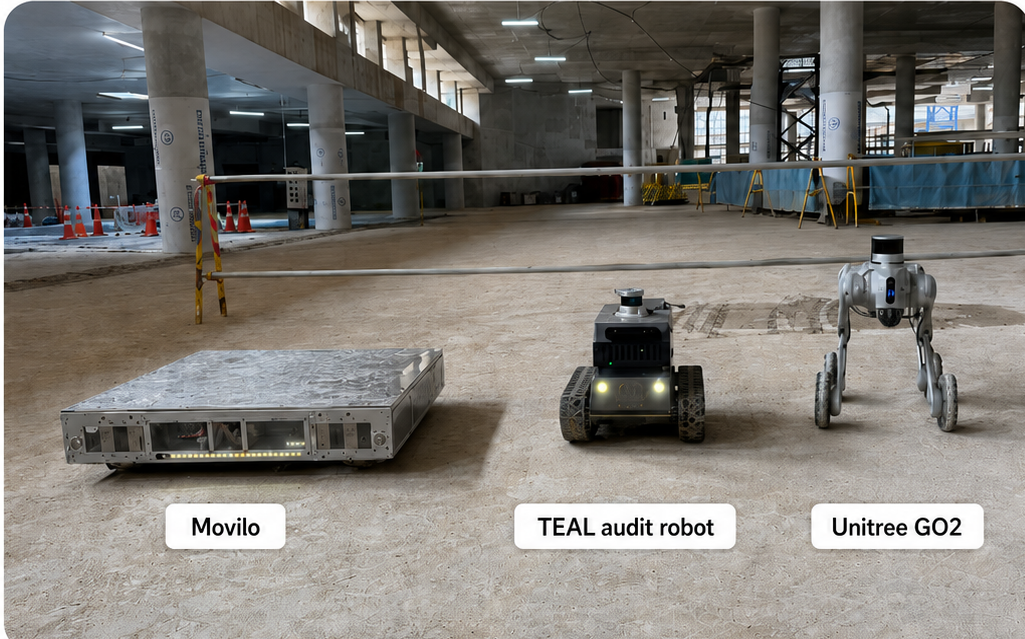
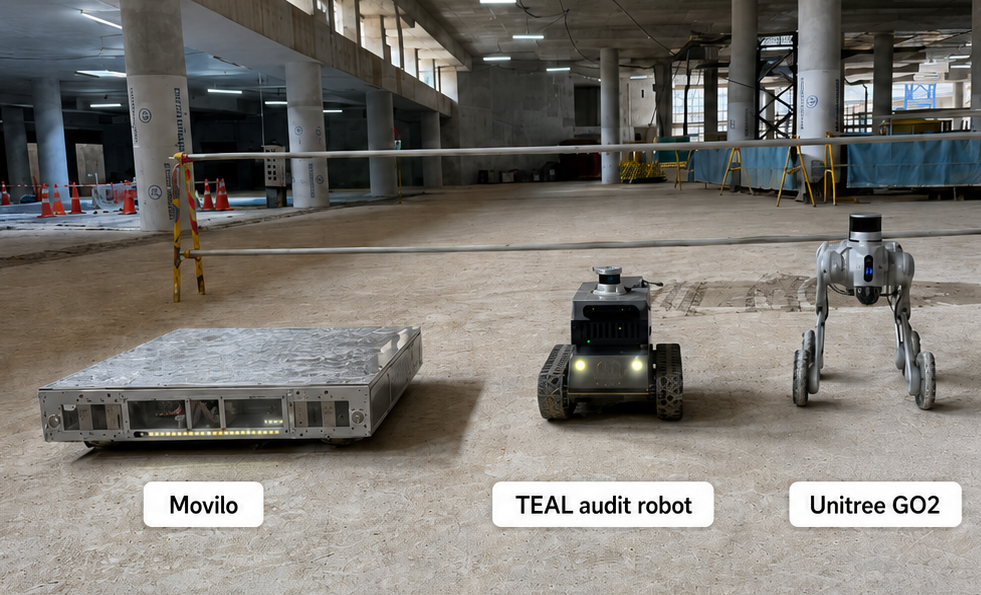
Restructure field figure: photos only, staged example moved to results
Fig. 3 now shows the squared, slightly smaller three-robot photo above
clean action shots of the Movilo (slide 57) and GO2 (slide 81). The
annotated consumable photo-and-map pair becomes its own figure placed
after the validation results discussion.

diff --git a/conference_101719.tex b/conference_101719.tex
@@ -252,14 +252,14 @@ With the Movilo, Setting~1 staged corridor widths, safety cones, temporary parti
  
 For every setting the audit robot of Section~\ref{sec:capture} was teleoperated through the selected area, and the saved point cloud is the input to every later analysis.
  
-We assessed two target robots in the staged validation, chosen for their deliberately different forms: an omnidirectional transport robot (Movilo) and a quadruped (Unitree GO2); the closed-loop tests of Section~\ref{sec:loop} additionally assess a painting robot (BES FT-P320). Fig.~\ref{fig:field} (top) shows the audit robot and the two staged-validation platforms at the site.
+We assessed two target robots in the staged validation, chosen for their deliberately different forms: an omnidirectional transport robot (Movilo) and a quadruped (Unitree GO2); the closed-loop tests of Section~\ref{sec:loop} additionally assess a painting robot (BES FT-P320). Fig.~\ref{fig:field} shows the platforms at the site and the two target robots during staged validation.
 % TODO confirm the painting robot model name
 
 \begin{figure}[t]
 \centering
-\includegraphics[width=\linewidth]{figs/robots_on_site.png}\\[3pt]
-\includegraphics[width=\linewidth]{figs/staged_condition_go2.png}
-\caption{Field deployment. Top: the Movilo, the TEAL audit robot, and the GO2 at the site. Bottom: a staged test condition for the GO2 in Setting~4, a consumable blocking the main route, marked by the red box in the behind-robot view (left) and at its location on the accessibility map computed for the GO2 (right); the robot could not pass, matching the prediction.}
+\includegraphics[width=0.88\linewidth]{figs/robots_on_site.png}\\[3pt]
+\includegraphics[width=\linewidth]{figs/targets_in_action.png}
+\caption{Field deployment. Top: the Movilo, the TEAL audit robot, and the GO2 at the site. Bottom: the target robots during staged validation, the Movilo at a large item placed along the wall (left) and the GO2 at a scaffold base placed at the side of the path (right), both correctly predicted accessible.}
 \label{fig:field}
 \end{figure}
 For each setting the framework received the point cloud together with the parameter set of the robot under assessment, listed in Table~\ref{tab:robots}, and returned the index and an accessibility map for that robot in that setting. Assessing two platforms of different geometry, tolerance, and drive from the same scans exercises the robot-specific character of the method, since every setting yields a different traversable map and a different index for each machine. Both platforms assessed can rotate in place, so the differential and car-like branches of the drive-type input are not exercised by these experiments.
@@ -317,7 +317,7 @@ Drive type $d$ & Holonomic (omni.) & Legged & Holonomic (omni.) \\
  
 \subsection{Prediction Validation}
 \label{sec:validation}
-Across the five settings we compared the accessibility map predicted for each robot against the observed behaviour of the physical platform. Every staged test case was attempted by the robot and recorded on video; the executed motion was annotated onto the map, and a prediction counts as correct when a region marked accessible was traversed and a region marked inaccessible could not be entered. Fig.~\ref{fig:field} (bottom) shows one such staged condition beside the prediction it tests, and Fig.~\ref{fig:heatmaps} shows all five settings, with the predicted map beside the annotated behaviour of the robot and a third panel marking every pixel on which the two disagree.
+Across the five settings we compared the accessibility map predicted for each robot against the observed behaviour of the physical platform. Every staged test case was attempted by the robot and recorded on video; the executed motion was annotated onto the map, and a prediction counts as correct when a region marked accessible was traversed and a region marked inaccessible could not be entered. Fig.~\ref{fig:heatmaps} shows all five settings, with the predicted map beside the annotated behaviour of the robot and a third panel marking every pixel on which the two disagree.
 \begin{figure*}[!t]
 \centering
 \makebox[0.25\textwidth]{\footnotesize Predicted}\hspace{0.017\textwidth}%
@@ -379,7 +379,14 @@ Overall & & 94.6 & 92.6 & 98.7 & 97.9 & 58/60 & $+4.6$ \\
 \end{tabular}
 \end{table}
 
-The comparisons follow a consistent pattern. Obstacles placed at the edge of a route were correctly left accessible, passages narrower than the inflated footprint and blocking partitions were correctly marked unreachable, and the conditions Setting~5 encountered on site were all predicted correctly, with the caveat that slipperiness lies outside the geometric scope of the index, so the wet floor's accessible marking rests on geometry alone. A case-by-case inspection of the disagreement panels against the deployment video further identified fourteen localised route-level discrepancies, regions where the annotated behaviour contradicts the prediction; Section~\ref{sec:discussion} traces them to their mechanisms.
+The comparisons follow a consistent pattern. Obstacles placed at the edge of a route were correctly left accessible, passages narrower than the inflated footprint and blocking partitions were correctly marked unreachable, and the conditions Setting~5 encountered on site were all predicted correctly, with the caveat that slipperiness lies outside the geometric scope of the index, so the wet floor's accessible marking rests on geometry alone. Fig.~\ref{fig:staged_go2} shows one such correctly predicted condition beside its prediction.
+
+\begin{figure}[!t]
+\centering
+\includegraphics[width=\linewidth]{figs/staged_condition_go2.png}
+\caption{A staged condition from Setting~4: a consumable blocking the GO2's main route, marked by the red box in the behind-robot view (left) and at its location on the accessibility map computed for the GO2 (right); the robot could not pass, matching the prediction.}
+\label{fig:staged_go2}
+\end{figure} A case-by-case inspection of the disagreement panels against the deployment video further identified fourteen localised route-level discrepancies, regions where the annotated behaviour contradicts the prediction; Section~\ref{sec:discussion} traces them to their mechanisms.
 % TODO confirm whether the two missed test conditions are among the
 % fourteen route-level discrepancies, and state it here
 
